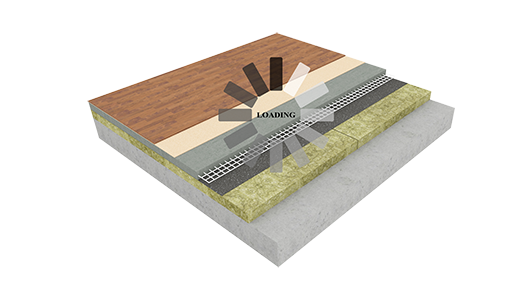
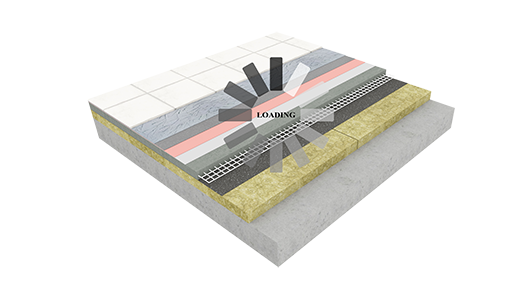
3 models ipad

Changed region(s): [[0.1507, 0.0888, 0.7232, 0.5329]]

diff --git a/pol.plav.o.linoleym.bip.html b/pol.plav.o.linoleym.bip.html
@@ -61,7 +61,7 @@
 								    
 									
 									<!-- pol.plav.o.linoleym.b (Max К) -->
-									<model-viewer id="reveal" loading="eager" poster="images/pol.plav.o.linoleym.b.png" src="https://poly.googleusercontent.com/downloads/c/fp/1596721960643922/cWdpB28p9Fn/5akNVh4RVGU/model.gltf" ar ar-modes="webxr scene-viewer quick-look fallback" ar-scale="auto" magic-leap camera-controls ios-src="https://poly.googleusercontent.com/downloads/c/fp/1596721960643922/cWdpB28p9Fn/fNN0BJmp-3A/model.usdz" alt="pol.plav.o.linoleym.b (Максим Kolbysh)" background-color="##fafafa" camera-controls auto-rotate > </model-viewer>
+									<model-viewer id="reveal" loading="eager" poster="images/pol.plav.o.linoleym.b.png" src="https://saintgobain.s3mts.ru/MTS-TEST1/3dmodels/pol.naliv.vl.plitka.glb" ar ar-modes="webxr scene-viewer quick-look fallback" ar-scale="auto" magic-leap camera-controls ios-src="https://saintgobain.s3mts.ru/MTS-TEST1/3dmodels/pol.naliv.vl.plitka.usdz" alt="pol.plav.o.linoleym.b (Максим Kolbysh)" background-color="##fafafa" camera-controls auto-rotate > </model-viewer>
 
 
 									

diff --git a/sanuzel.html b/sanuzel.html
@@ -60,7 +60,7 @@
 								    
 									
 									<!-- sanuzel (Максим Kolbysh) -->
-									<model-viewer id="reveal" loading="eager" poster="images/sanuzel.png" src="https://poly.googleusercontent.com/downloads/c/fp/1604670961485251/aPsTgpGC484/4YqNIIQHtM8/model.gltf" ar ar-modes="webxr scene-viewer quick-look fallback" ar-scale="auto" magic-leap camera-controls ios-src="https://poly.googleusercontent.com/downloads/c/fp/1604670961485251/aPsTgpGC484/4WydLqczpA7/model.usdz" alt="sanuzel (Максим Kolbysh)" background-color="##fafafa" camera-controls auto-rotate > </model-viewer>
+									<model-viewer id="reveal" loading="eager" poster="images/sanuzel.png" src="https://saintgobain.s3mts.ru/MTS-TEST1/3dmodels/sanuzel.glb" ar ar-modes="webxr scene-viewer quick-look fallback" ar-scale="auto" magic-leap camera-controls ios-src="https://saintgobain.s3mts.ru/MTS-TEST1/3dmodels/sanuzel.usdz" alt="sanuzel (Максим Kolbysh)" background-color="##fafafa" camera-controls auto-rotate > </model-viewer>
 
 									
 

diff --git a/vf2combyip.html b/vf2combyip.html
@@ -60,7 +60,7 @@
 								    
 									
 									<!-- vf2comby (Max К) -->
-									<model-viewer id="reveal" loading="eager" poster="images/vf2comby.png" src="https://poly.googleusercontent.com/downloads/c/fp/1596705959906946/69YkIFKEyLS/aRmMdQZDKaI/model.gltf" ar ar-modes="webxr scene-viewer quick-look fallback" ar-scale="auto" magic-leap camera-controls ios-src="https://poly.googleusercontent.com/downloads/c/fp/1596705959906946/69YkIFKEyLS/24NwFmoOD7j/model.usdz" alt="vf2comby (Max К)" background-color="##fafafa" camera-controls auto-rotate > </model-viewer>
+									<model-viewer id="reveal" loading="eager" poster="images/vf2comby.png" src="https://saintgobain.s3mts.ru/MTS-TEST1/3dmodels/vf2%28q%29.glb" ar ar-modes="webxr scene-viewer quick-look fallback" ar-scale="auto" magic-leap camera-controls ios-src="https://saintgobain.s3mts.ru/MTS-TEST1/3dmodels/vf2%28q%29.usdz" alt="vf2comby (Max К)" background-color="##fafafa" camera-controls auto-rotate > </model-viewer>
 									
 									
 									
